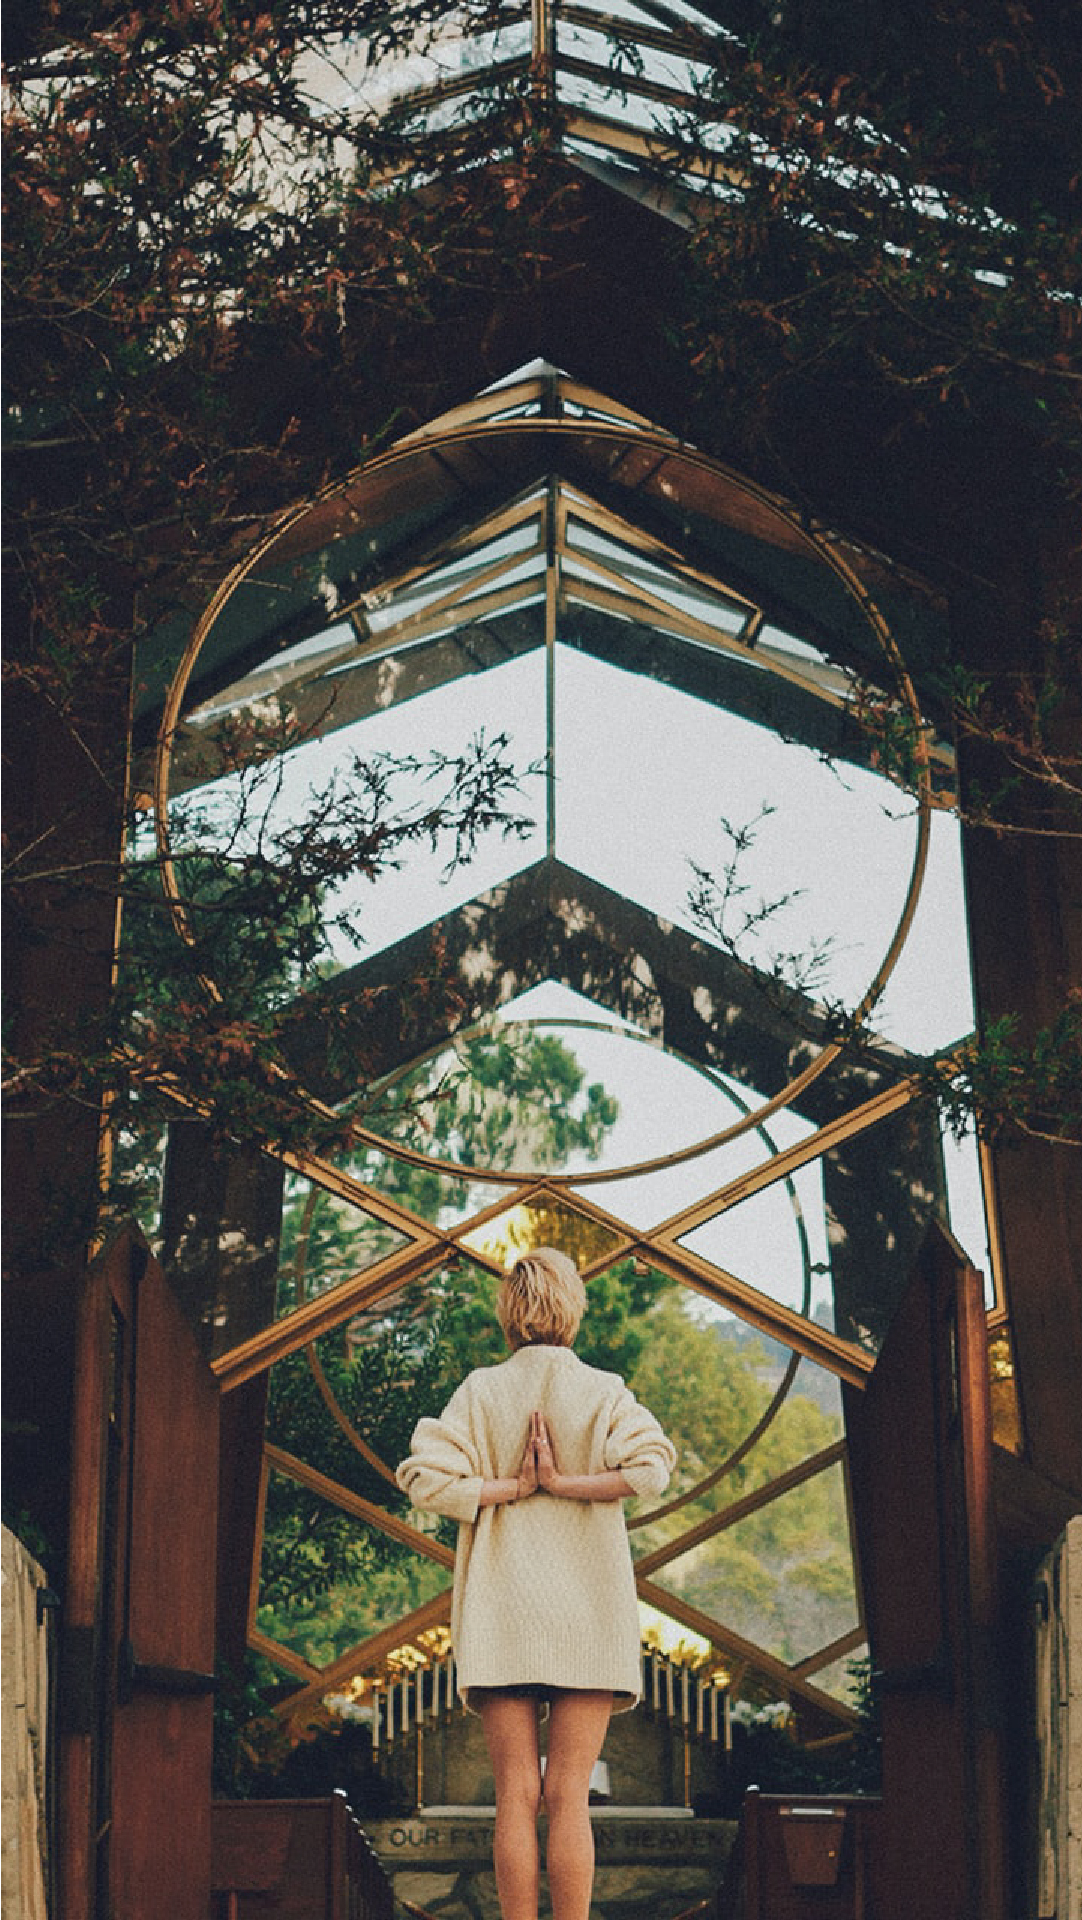
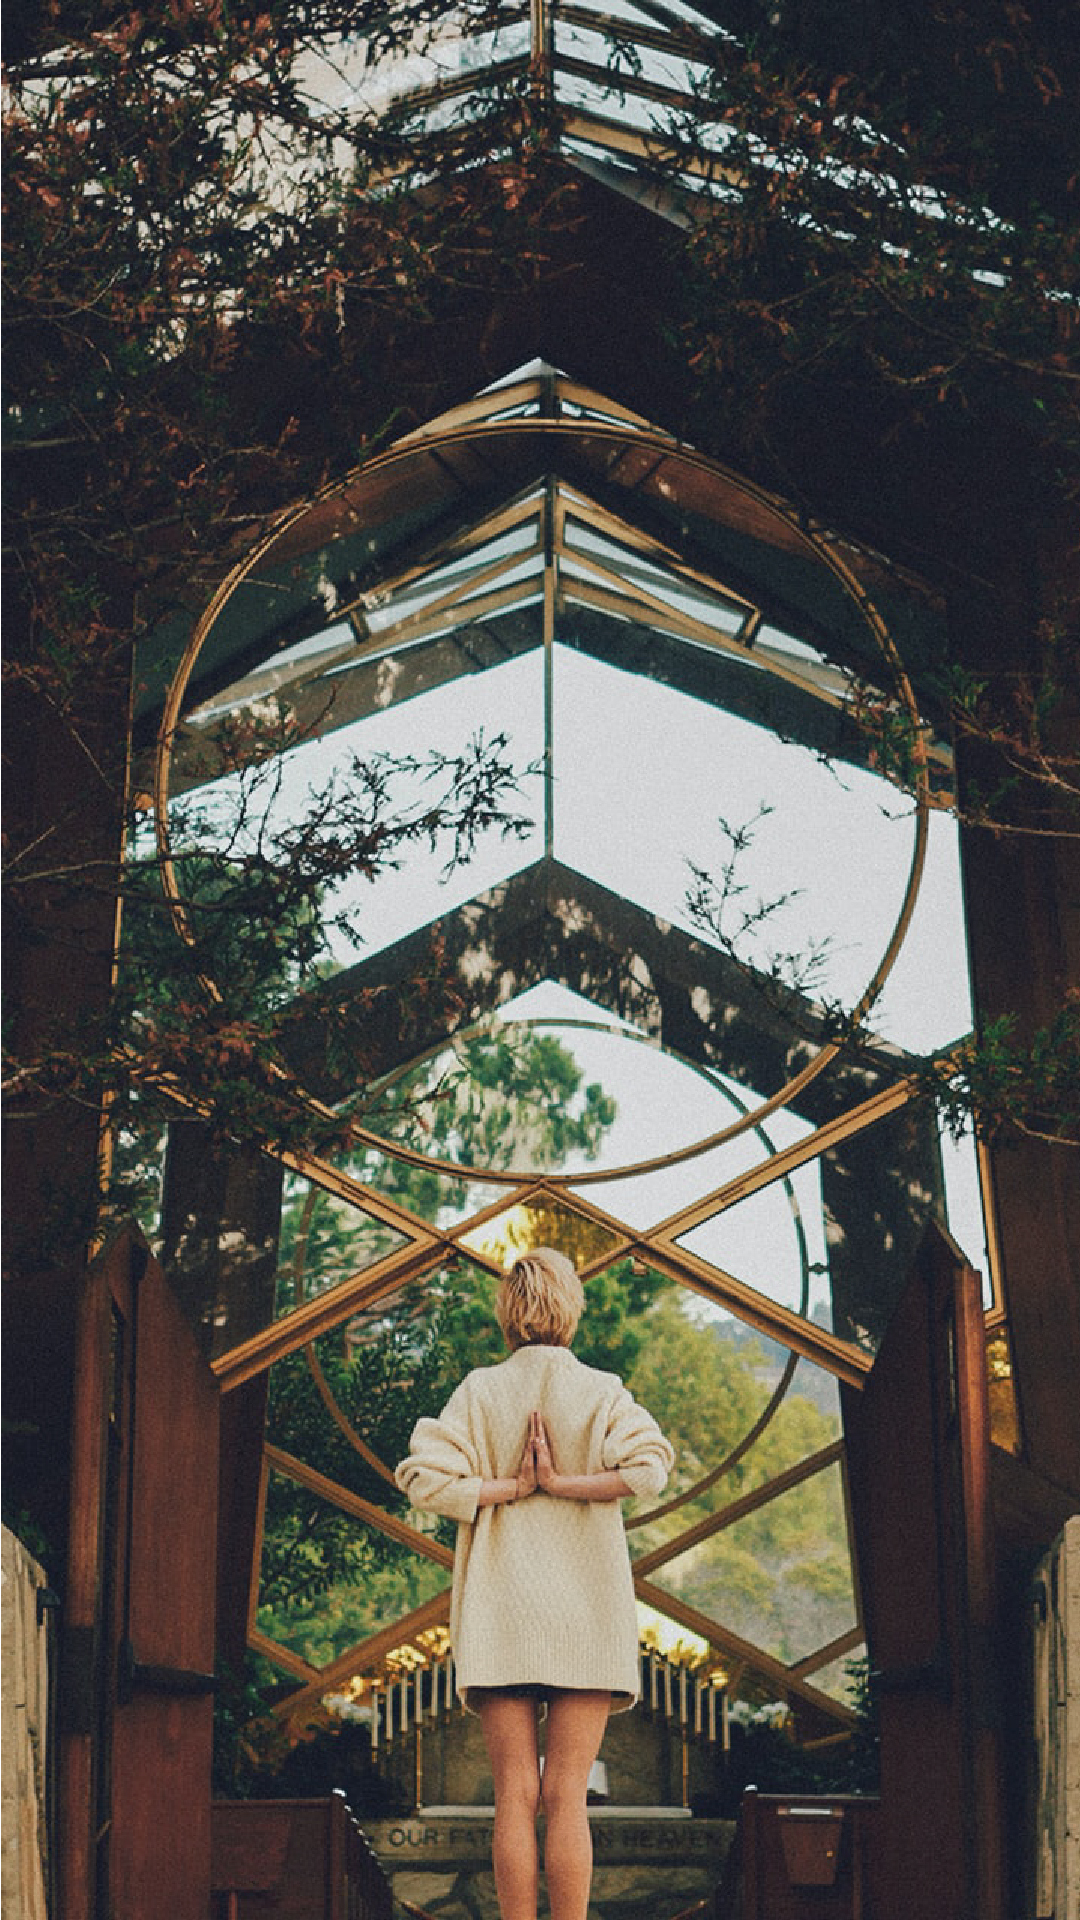
cropping img optimized

diff --git a/src/components/GreenSection.vue b/src/components/GreenSection.vue
@@ -170,7 +170,7 @@ export default {
     display: flex;
     overflow-x: hidden;
     background-size: cover;
-    background-position: center center;
+    background-position: bottom center;
     background-repeat: no-repeat;
   }
   .hero {
